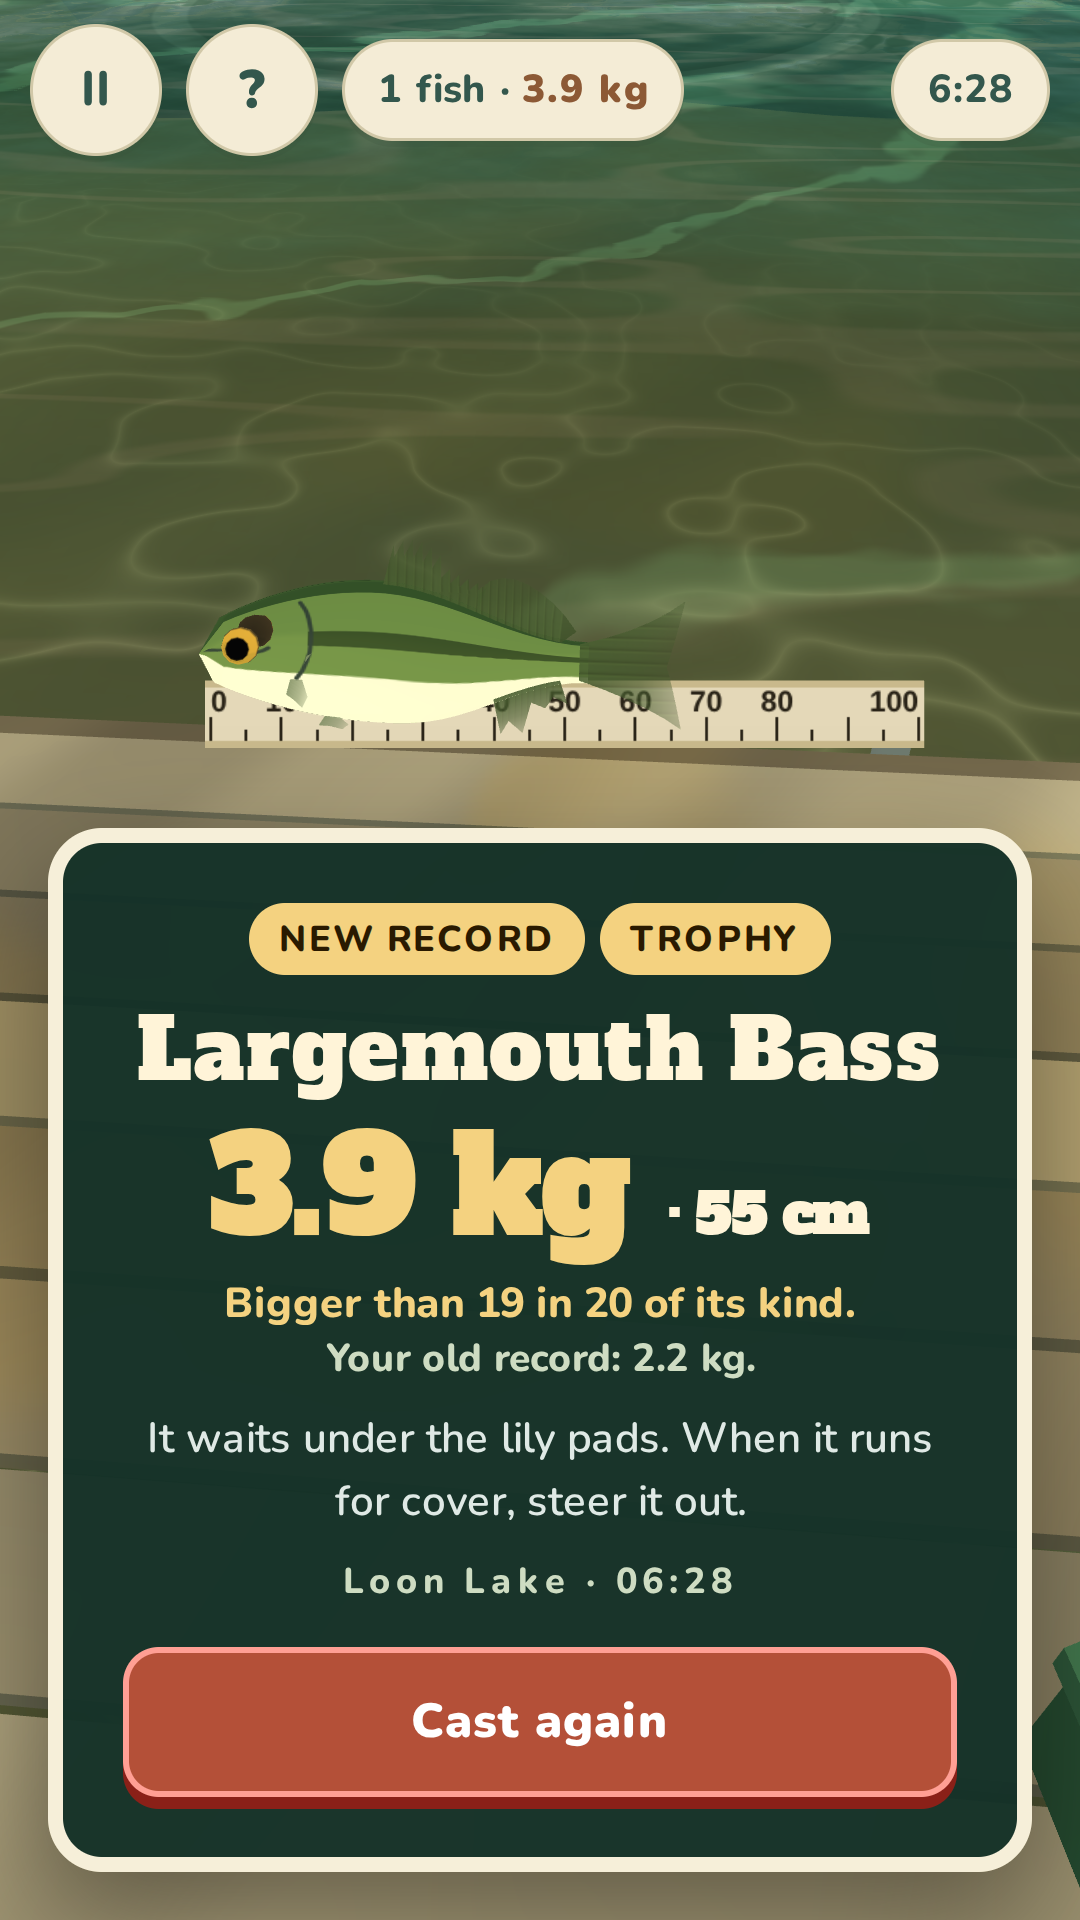
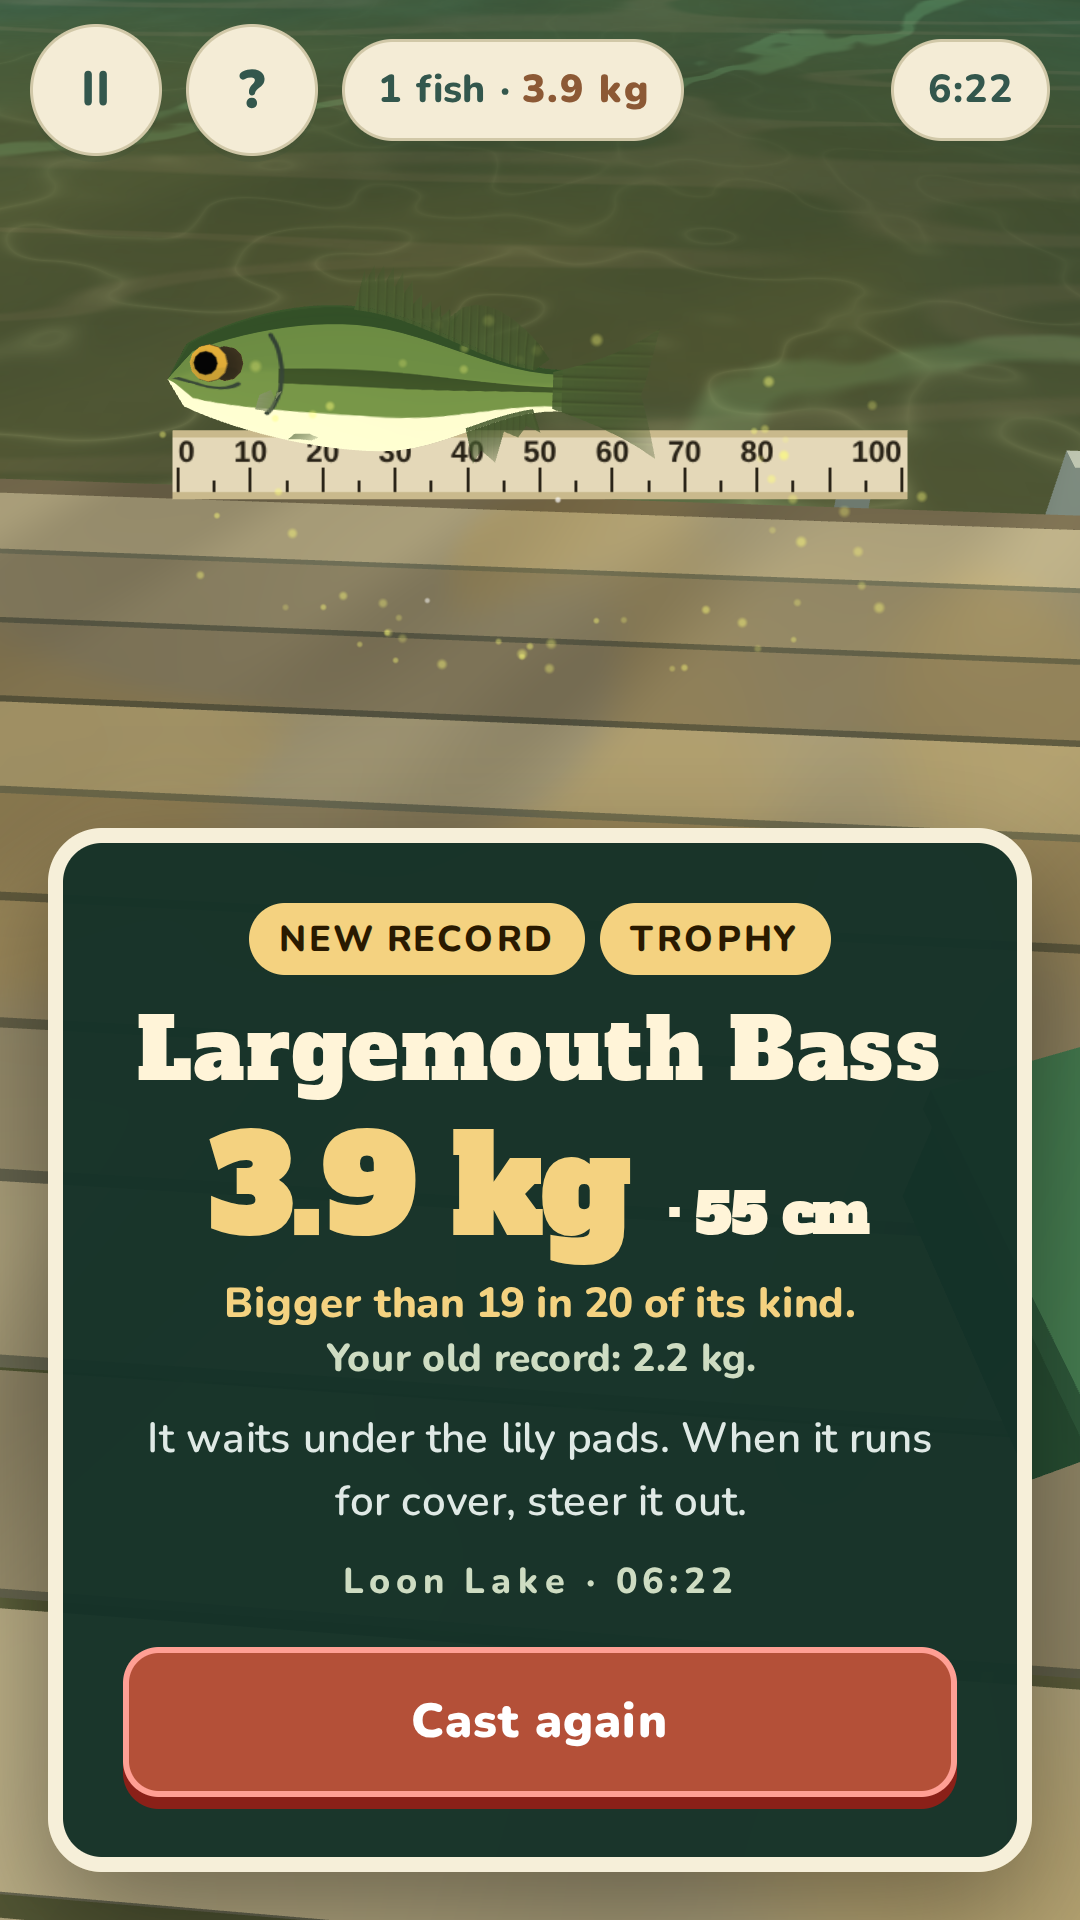
Reel It In: frame the trophy photo on time (#225)
The flash and the card of the photo beat follow the wall clock, but the
push-in and the camera's move to the fish followed the lake's clock,
which moves at most 50 ms a frame. On slow frames the flash came while
the camera was still moving down from the lake, so the photo showed the
fish low in the view, behind the card. A jump just before the landing
made the move longer, because the jump's zoom looks up at the leap.

- world.js: run the photo beat (push-in, hold, sparks) on the wall
  clock, and move the camera on the push-in's curve, so it reaches the
  photo's pose as the push-in ends, from any pose and at any frame rate.
- main.js: take the flash and card times from WORLD.PHOTO.
- moments.e2e.mjs Part D: a trophy landed during a jump's zoom, on
  150 ms frames, at 390x844, 360x640 and 844x390. It fails on the old
  code (the fish 113 to 299 px too low at the flash).
- world.render.mjs: let the wall-clock beat pass before the push-in is
  measured.
- store-shots.mjs: remove the zoom wait. 05-trophy.png rendered again.
- OpenSpec: fish-feedback gains the trophy photo framing requirement.

Claude-Session: https://claude.ai/code/session_019xwLUdFmkQLgaPW29LKFxh

diff --git a/public/fish/js/world.js b/public/fish/js/world.js
@@ -264,6 +264,19 @@ export async function createWorld(container, { quality = "high", place = PLACES.
     const T = S.trophy, d = T ? T.dist * T.push : 1.1, p = T ? T.pitch : CATCH_PITCH;
     return new THREE.Vector3(Math.sin(CATCH_YAW) * Math.cos(p), Math.sin(p), -Math.cos(CATCH_YAW) * Math.cos(p)).multiplyScalar(d).add(CATCH_CAM);
   };
+  // The photo beat runs on the wall clock (s since the fish showed), as main.js times the flash and the card by it. The
+  // lake's own clock moves at most 50 ms a frame, so on slow frames it falls behind them
+  const beatT = (T) => (performance.now() - T.at) / 1000;
+  // the share of the way to the photo's pose the camera goes this frame, during the push-in (null after it, or with no
+  // beat): the rest of the push-in's curve, so the camera is there when the push-in ends and the flash comes, from
+  // wherever the fight left it (a leap's zoom looks up at the sky) and however slow the frames are
+  function photoStep() {
+    const T = S.trophy, P = WORLD.PHOTO.push;
+    if (!T || !T.beat || S.view.mode !== "catch" || T.camT >= P) return null;
+    const e = beatT(T), left = (t) => Math.pow(1 - clamp(t / P, 0, 1), 3), k = 1 - left(e) / left(T.camT);
+    T.camT = e;
+    return k;
+  }
   function camTarget() {
     const m = S.view.mode, portrait = S.view.portrait || S.w / S.h < 0.9;
     const out = { pos: EYEV.clone(), yaw: (S.view.yaw || 0) * DEG, pitch: (portrait ? WORLD.PITCH_CAST.portrait : WORLD.PITCH_CAST.wide) * DEG, fov: baseFov(m), rate: 4, posRate: 2.2 };
@@ -342,8 +355,11 @@ export async function createWorld(container, { quality = "high", place = PLACES.
     if (cutFn) { cutCamera(dt); return; }
     const T = camTarget(), C = S.cam;
     if (!C.init) { C.pos.copy(T.pos); C.yaw = T.yaw; C.pitch = T.pitch; C.fov = T.fov; C.init = true; }
-    const k = 1 - Math.exp(-dt * T.rate), kp = 1 - Math.exp(-dt * T.posRate);
-    C.pos.lerp(T.pos, S.view.mode === "title" ? kp : Math.max(kp, k * 0.6));
+    let k = 1 - Math.exp(-dt * T.rate), kp = 1 - Math.exp(-dt * T.posRate);
+    if (S.view.mode !== "title") kp = Math.max(kp, k * 0.6);
+    const b = photoStep();
+    if (b !== null) k = kp = b;
+    C.pos.lerp(T.pos, kp);
     C.yaw += angDiff(C.yaw, T.yaw) * k;
     C.pitch += (T.pitch - C.pitch) * k;
     C.fov += (T.fov - C.fov) * k;
@@ -623,9 +639,11 @@ export async function createWorld(container, { quality = "high", place = PLACES.
       stage.add(board);
       W = L * 1.06; H = (size.y / 2 - (yb - bh / 2)) * 1.1;
     }
+    // beat: main.js holds the card back for the photo beat (Calm effects too, with no push-in); at: when the fish showed, on
+    // the wall clock (ms); camT: how far into the beat the camera has come (s, see photoStep)
     const calm = isCalm();
     S.trophy = { mesh: stage, pivot, inner: m, board, behind, len, W, H, dist: 1, fov: 40, t: 0, sw: 0, junk, id, photo: photo && !calm, push: photo && !calm ? WORLD.PHOTO.from : 1, pitch: CATCH_PITCH,
-      legend: !!(sp && sp.legend), sparkle: sparkle && !calm };
+      legend: !!(sp && sp.legend), sparkle: sparkle && !calm, beat: photo, at: performance.now(), camT: 0 };
     fitTrophy();
     scene.add(stage);
   }
@@ -662,9 +680,10 @@ export async function createWorld(container, { quality = "high", place = PLACES.
     m.visible = S.view.mode === "catch";
     // the board lies a little behind the fish: drawn larger by that much, its marks line up with the fish as the eye sees it
     if (T.board) T.board.scale.setScalar(1 + T.behind / Math.max(0.3, T.dist * T.push));
-    // the photo beat: the view eases in from far away, then the fish holds still for a moment
-    if (T.photo) T.push = lerp(P.from, 1, 1 - Math.pow(1 - clamp(T.t / P.push, 0, 1), 3));
-    const frozen = T.photo && T.t > P.push && T.t < P.push + P.freeze;
+    // the photo beat: the view eases in from far away, then the fish holds still for a moment (on the beat's clock, beatT)
+    const e = T.photo ? beatT(T) : T.t;
+    if (T.photo) T.push = lerp(P.from, 1, 1 - Math.pow(1 - clamp(e / P.push, 0, 1), 3));
+    const frozen = T.photo && e > P.push && e < P.push + P.freeze;
     if (!frozen) T.sw += dt;
     const p = trophySpot();
     // face the camera: the stage turns with the view, the fish swings slowly on it
@@ -684,7 +703,7 @@ export async function createWorld(container, { quality = "high", place = PLACES.
     // a legend glitters
     if (T.legend && Math.random() < dt * 12) spray.emit(p.x + (Math.random() - 0.5) * T.len, p.y + (Math.random() - 0.5) * T.len * 0.3, p.z + (Math.random() - 0.5) * 0.1, 0, 0.08, 0, 0.012, 1.2, 1, 0);
     // a trophy or a legend: one burst of gold sparks around the fish as the push-in ends
-    if (T.sparkle && T.t >= (T.photo ? P.push : 0.3)) {
+    if (T.sparkle && e >= (T.photo ? P.push : 0.3)) {
       T.sparkle = false;
       for (let i = 0; i < 60; i++) {
         const a = Math.random() * 6.28, r = T.len * (0.3 + 0.4 * Math.random());

diff --git a/public/fish/js/main.js b/public/fish/js/main.js
@@ -1100,8 +1100,9 @@ function ringNews(e) {
 
 /* ---------------- the catch ---------------- */
 // the photo beat of a trophy, a legend or a fish that opens a place: the fish shows alone (world.js pushes the camera
-// in), the flash and the shutter come, then the card slides up. Seconds
-const PHOTO = { flash: 1.2, card: 1.5 };
+// in), the flash and the shutter come, then the card slides up. Seconds, on the wall clock: the flash comes as the
+// push-in ends, and the card as the fish's hold ends (world.js runs both on this clock too)
+const PHOTO = { flash: WORLD.PHOTO.push, card: WORLD.PHOTO.push + WORLD.PHOTO.freeze };
 // the call of each place, after a legend's fanfare
 const PLACE_CALL = { loon: "loonWail", stumps: "frogs", river: "rapids", sea: "gulls" };
 function caught(c) {

diff --git a/openspec/changes/archive/2026-10-05-fish-trophy-photo-framing/design.md b/openspec/changes/archive/2026-10-05-fish-trophy-photo-framing/design.md
@@ -1,0 +1,23 @@
+# Design
+
+## One clock for the beat
+
+Two clocks drive the beat. `main.js` sets the flash and the card with `setTimeout`, so they follow the wall clock. `world.js` eases the push-in and the camera in `update(dt)`, and `main.js` gives it at most 50 ms a frame.
+
+Chosen: `world.js` runs the photo beat by the wall clock too. `beatT` gives the seconds since `showCatch`, from `performance.now()`. The hook-set punch and the freeze already use `performance.now()`, for the same reason: they must line up with a moment that `main.js` times. The beat keeps its length on every phone, and no test has to wait longer.
+
+Not chosen: `main.js` waits for the lake's clock before the flash and the card. `world.js` would keep one clock, but the beat would get longer on slow frames, the card could wait for ever if the lake stopped drawing, and every check that waits for the card would wait longer under software rendering.
+
+`PHOTO` in `main.js` now comes from `WORLD.PHOTO`: the flash at the end of the push-in, the card at the end of the hold.
+
+## The camera's move
+
+`updateCamera` eases toward its target at a fixed rate. It gets close but never arrives, and a far start (a jump's zoom looks up) leaves more of the way at the flash. During the push-in, `photoStep` gives the share of the remaining way for this frame from the push-in's curve, (1 - t / 1.2)³. So the camera reaches the photo's pose when the push-in ends, from any pose and at any frame rate. After that, the usual ease takes over, so a later refit (a resize, or the card's new height) still eases.
+
+With Calm effects there is no push-in, but the card still waits 1.5 s. So the timed move applies to every catch that has the beat (`beat`), and the push-in only to `photo`.
+
+## Check
+
+`qa/fish/moments.e2e.mjs` Part D: a smallmouth jumps 11 m out, a trophy is landed while the zoom is still on, and from then on every frame takes 150 ms (the lake's clock runs at a third of the wall clock). At the flash, the fish's middle must be within 3% of the view's size from the middle of the free part. Then the card must come up beside the fish. At 390x844, 360x640 and 844x390.
+
+`qa/fish/world.render.mjs` steps the world by hand. Its push-in check now waits 1.3 s of real time before it measures.

diff --git a/openspec/changes/archive/2026-10-05-fish-trophy-photo-framing/tasks.md b/openspec/changes/archive/2026-10-05-fish-trophy-photo-framing/tasks.md
@@ -1,0 +1,31 @@
+# Tasks
+
+- [x] Find the cause: the flash and the card follow the wall clock, and the push-in and the camera follow the lake's clock.
+- [x] `world.js`: run the photo beat on the wall clock (`beatT`), and move the camera on the push-in's curve (`photoStep`).
+- [x] `main.js`: take `PHOTO` from `WORLD.PHOTO`.
+- [x] Add Part D to `qa/fish/moments.e2e.mjs`. It fails on the old code and passes on the new code.
+- [x] `qa/fish/world.render.mjs`: let the wall-clock beat pass before the push-in is measured.
+- [x] `qa/fish/store-shots.mjs`: remove the zoom wait. Render `05-trophy.png` again.
+- [x] Run the fish checks.
+- [x] Validate the change with the OpenSpec CLI.
+- [x] Archive the change.
+
+## Checks
+
+Run under Chromium with SwiftShader (software WebGL). No real phone was used.
+
+- `PARTS=D node qa/fish/moments.e2e.mjs`, where the fish's middle sits at the flash, against the middle of the free part:
+
+  | Size | Old code | New code |
+  | --- | --- | --- |
+  | 390x844 | 388 px against 249 (fails) | 250 against 249 |
+  | 360x640 | 260 px against 147 (fails) | 145 against 147 |
+  | 844x390 | 494 px against 195, below the view (fails) | 195 against 195 |
+
+  The card check passes on both, because by the time the card has come up the old camera has caught up enough.
+- After the photo settles, the old and the new code reach the same pose: at 360x640 the fish's middle is at 136 and 134 px, and the free part's middle is at 134.
+- `node qa/fish/moments.e2e.mjs` (Parts A to D): 81 checks pass. `node qa/fish/cutscenes.e2e.mjs`: 75 pass. `node qa/fish/boot.e2e.mjs`: 91 pass.
+- `node qa/fish/world.render.mjs`: OK, 106 shots. The push-in check now grows the fish at every place (Loon Lake 0.07 to 1.39 of the view's width, Stump Bay 0.17 to 1.45, the river 0.27 to 1.41, Gull Rock 0.30 to 1.46). Without the wait it failed on the new code (0.07 to 0.08).
+- The 10 unit tests in `qa/fish/*.test.mjs` pass.
+- `node qa/fish/store-shots.mjs` without the zoom wait: every check passes. The new `05-trophy.png` (1080 x 1920, RGB) shows the fish in the middle of the free part, with the gold sparks.
+- `openspec validate fish-trophy-photo-framing --type change --strict` (CLI 1.14.0): valid.

diff --git a/openspec/changes/archive/2026-10-05-fish-trophy-photo-framing/proposal.md b/openspec/changes/archive/2026-10-05-fish-trophy-photo-framing/proposal.md
@@ -1,0 +1,17 @@
+# Frame the trophy photo on time
+
+A trophy, a legend or a fish that opens a place gets a photo beat. The fish shows alone, the camera pushes in, the flash comes at 1.2 s, and the card comes up at 1.5 s. The game times the flash and the card by the wall clock. The lake times the push-in and the camera's move to the fish by its own clock, and that clock moves at most 50 ms a frame. When frames take longer, the lake falls behind. The flash then comes while the camera is still moving down from the lake, and the photo shows the fish low in the view, behind the place where the card comes up. A jump just before the landing makes the camera's move longer, because the jump's zoom looks up at the leap.
+
+The bug showed in the store screenshots, which render in software. On a phone at 30 to 60 fps, the camera is within a degree or two of its place at the flash. The bug shows on slow phones, and after a long frame when the catch first loads.
+
+## Scope
+
+- Run the photo beat's push-in, its hold and its sparks on the wall clock, the clock that the flash and the card use.
+- Move the camera to the photo's pose on the push-in's own curve, so it arrives when the push-in ends, from any pose.
+- Take the game's flash and card times from the world's photo numbers, so the two cannot drift apart.
+- Add a browser check, and remove the zoom wait from the screenshot script.
+- Render the Android trophy screenshot again.
+
+## Player-facing change
+
+The trophy photo always shows the fish in the middle of the part of the view that the card leaves free, also right after a jump and on a slow phone. On a fast phone the beat looks the same as before.

diff --git a/openspec/specs/fish-feedback/spec.md b/openspec/specs/fish-feedback/spec.md
@@ -61,3 +61,14 @@ The last-run warning SHALL NOT use the line-snap buzz and SHALL NOT mute the dra
 #### Scenario: Last run
 - **WHEN** a fish makes its last run
 - **THEN** the drag buzz keeps going and the warning buzz differs from the snap buzz.
+
+### Requirement: Trophy photo framing
+The photo beat of a trophy, a legend or a fish that opens a place SHALL show the fish in the middle of the part of the view that the catch card leaves free when the flash comes. The card SHALL then come up beside the fish, not over it. This SHALL hold right after a jump, and when frames take longer than 50 ms.
+
+#### Scenario: Trophy landed during a jump's zoom on slow frames
+- **WHEN** a trophy is landed while a jump's zoom is still on, and every frame takes 150 ms
+- **THEN** at the flash the fish's middle is within 3% of the view's size from the middle of the free part, at 390x844, 360x640 and 844x390
+
+#### Scenario: The card comes up
+- **WHEN** the card of that trophy has come up
+- **THEN** the fish and its ruler are inside the view, above the card on a tall view and to its left on a wide view

diff --git a/openspec/changes/archive/2026-10-05-fish-trophy-photo-framing/specs/fish-feedback/spec.md b/openspec/changes/archive/2026-10-05-fish-trophy-photo-framing/specs/fish-feedback/spec.md
@@ -1,0 +1,12 @@
+## ADDED Requirements
+
+### Requirement: Trophy photo framing
+The photo beat of a trophy, a legend or a fish that opens a place SHALL show the fish in the middle of the part of the view that the catch card leaves free when the flash comes. The card SHALL then come up beside the fish, not over it. This SHALL hold right after a jump, and when frames take longer than 50 ms.
+
+#### Scenario: Trophy landed during a jump's zoom on slow frames
+- **WHEN** a trophy is landed while a jump's zoom is still on, and every frame takes 150 ms
+- **THEN** at the flash the fish's middle is within 3% of the view's size from the middle of the free part, at 390x844, 360x640 and 844x390
+
+#### Scenario: The card comes up
+- **WHEN** the card of that trophy has come up
+- **THEN** the fish and its ruler are inside the view, above the card on a tall view and to its left on a wide view
